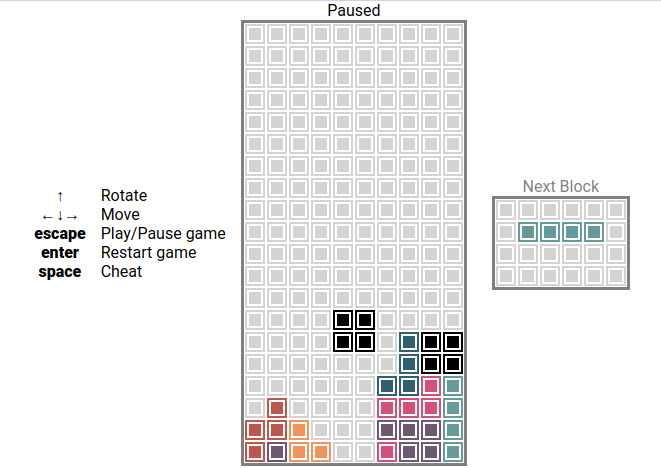
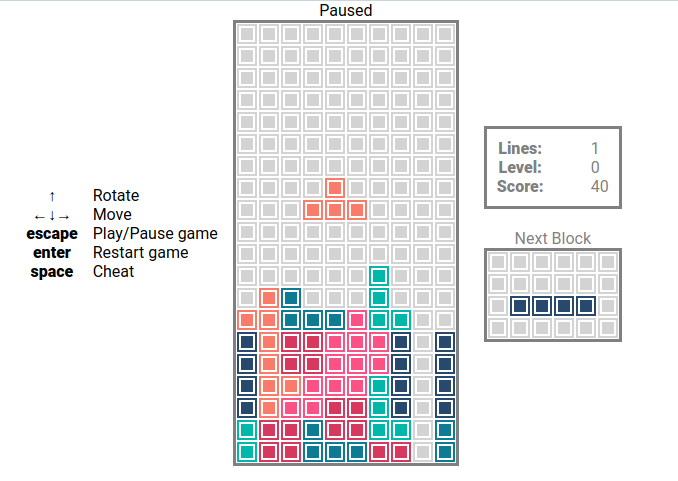
feat(score): add scoring

Changed region(s): [[0.0303, 0.0, 0.9682, 1.0], [0.0605, 0.3889, 0.0908, 0.4188]]

diff --git a/src/hooks/tetrominos.ts b/src/hooks/tetrominos.ts
@@ -1,5 +1,6 @@
 import { useState, useCallback, useEffect } from "react";
-import { useInterval } from "../hooks/interval";
+import { useInterval } from "./interval";
+import { useScore } from "./score";
 
 const tetrominos = ["I", "J", "L", "O", "S", "T", "Z"] as const;
 
@@ -221,14 +222,26 @@ function isShapeCollidingWithBoard(
 }
 
 function merge(board: number[][], shape: number[][], x: number, y: number) {
+  return board.map((line, l) =>
+    line.map((value, i) => value + isInShape(shape, x, y, i, l))
+  );
+}
+
+function clearLines(board: number[][]) {
   const lines = board.length;
-  const cur = board
-    .map((line, l) =>
-      line.map((value, i) => value + isInShape(shape, x, y, i, l))
-    )
-    .filter((line) => line.some((value) => value === 0));
-  cur.splice(0, 0, ...getInitBoard(board[0].length, lines - cur.length));
-  return cur;
+  const clearedBoard = board.filter((line) =>
+    line.some((value) => value === 0)
+  );
+  const cleared = lines - clearedBoard.length;
+  if (cleared > 0) {
+    clearedBoard.splice(
+      0,
+      0,
+      ...getInitBoard(board[0].length, lines - clearedBoard.length)
+    );
+    return { board: clearedBoard, cleared };
+  }
+  return { board, cleared };
 }
 
 /**
@@ -245,6 +258,7 @@ export const useTetris = (width = 10, height = 20) => {
   const [posY, setY] = useState(positions[currentTetromino].y);
   const [rotation, setRotation] = useState(0);
   const [checkY, setCheckY] = useState(-1);
+  const { lines, level, score, rate, updateScore } = useScore();
 
   const togglePause = () =>
     setState((prev) =>
@@ -329,27 +343,37 @@ export const useTetris = (width = 10, height = 20) => {
           checkY
         )
       ) {
-        const saveboard = merge(
-          board,
-          shapes[currentTetromino][rotation],
-          posX,
-          posY
+        const { board: saveboard, cleared } = clearLines(
+          merge(board, shapes[currentTetromino][rotation], posX, posY)
         );
         if (saveboard[0].some((value) => value > 0))
           setState(TetrisState.gameover);
         else {
           setBoard(saveboard);
+          if (cleared) updateScore(cleared);
           next();
         }
       } else setY(checkY);
     }
-  }, [board, currentTetromino, rotation, posX, posY, checkY, next]);
+  }, [
+    board,
+    currentTetromino,
+    rotation,
+    posX,
+    posY,
+    checkY,
+    next,
+    updateScore,
+  ]);
 
   useInterval(() => {
     if (state === TetrisState.running) down();
-  }, 1000);
+  }, rate);
 
   return {
+    lines,
+    level,
+    score,
     state,
     board,
     currentTetromino,

diff --git a/src/hooks/score.ts b/src/hooks/score.ts
@@ -1,0 +1,54 @@
+import { useState, useCallback } from "react";
+
+/**
+ * original gameboy drop rates
+ * @see https://tetris.fandom.com/wiki/Tetris_(Game_Boy)
+ */
+const rates = [
+  Math.floor((1000 * 53) / 60), //level 8
+  Math.floor((1000 * 49) / 60), //level 1
+  Math.floor((1000 * 45) / 60), //level 2
+  Math.floor((1000 * 41) / 60), //level 3
+  Math.floor((1000 * 37) / 60), //level 4
+  Math.floor((1000 * 33) / 60), //level 5
+  Math.floor((1000 * 28) / 60), //level 6
+  Math.floor((1000 * 22) / 60), //level 7
+  Math.floor((1000 * 17) / 60), //level 8
+  Math.floor((1000 * 11) / 60), //level 9
+  Math.floor((1000 * 10) / 60), //level 10
+  Math.floor((1000 * 9) / 60), //level 11
+  Math.floor((1000 * 8) / 60), //level 12
+  Math.floor((1000 * 7) / 60), //level 13
+  Math.floor((1000 * 6) / 60), //level 14
+  Math.floor((1000 * 6) / 60), //level 15
+  Math.floor((1000 * 5) / 60), //level 16
+  Math.floor((1000 * 5) / 60), //level 17
+  Math.floor((1000 * 4) / 60), //level 18
+  Math.floor((1000 * 4) / 60), //level 19
+  Math.floor((1000 * 3) / 60), //level 20
+  Math.floor((1000 * 2) / 60), //level 21
+  Math.floor((1000 * 1) / 60), //level 22
+];
+const points = [0, 40, 100, 300, 1200];
+
+export function useScore() {
+  const [lines, setLines] = useState(0);
+  const [score, setScore] = useState(0);
+  const [level, setLevel] = useState(0);
+  const [rate, setRate] = useState(rates[0]);
+
+  const updateScore = useCallback(
+    (n: number) => {
+      const nlines = lines + n;
+      const nlevel = Math.floor(nlines / 10);
+      const nrate = rates[nlevel];
+      setLines(nlines);
+      setLevel(nlevel);
+      setRate(nrate);
+      setScore((prev) => prev + (nlevel + 1) * points[n]);
+    },
+    [lines]
+  );
+
+  return { lines, score, level, rate, updateScore };
+}

diff --git a/src/components/board.tsx b/src/components/board.tsx
@@ -30,6 +30,9 @@ export function Board(props: BoardProps) {
   const {
     state,
     board,
+    lines,
+    level,
+    score,
     currentTetromino,
     nextTetromino,
     posX,
@@ -130,6 +133,18 @@ export function Board(props: BoardProps) {
         </div>
       </div>
       <div className={cn(style.next)}>
+        <div className={style.scores}>
+          <div className={style.descriptions}>
+            <div>Lines:</div>
+            <div>Level:</div>
+            <div>Score:</div>
+          </div>
+          <div className={style.values}>
+            <div>{lines}</div>
+            <div>{level}</div>
+            <div>{score}</div>
+          </div>
+        </div>
         Next Block
         <div className={cn(style.lines)}>
           {range(1, 4).map((y) => (

diff --git a/src/components/board.module.css b/src/components/board.module.css
@@ -124,3 +124,19 @@
   flex-direction: column;
   align-items: flex-start;
 }
+.scores {
+  display: flex;
+  flex-direction: row;
+  justify-content: space-between;
+  color: gray;
+  border-width: 3px;
+  border-style: solid;
+  margin-bottom: 20px;
+  padding: 10px;
+}
+.values {
+  margin-left: 15px;
+  display: flex;
+  flex-direction: column;
+  align-items: flex-start;
+}
